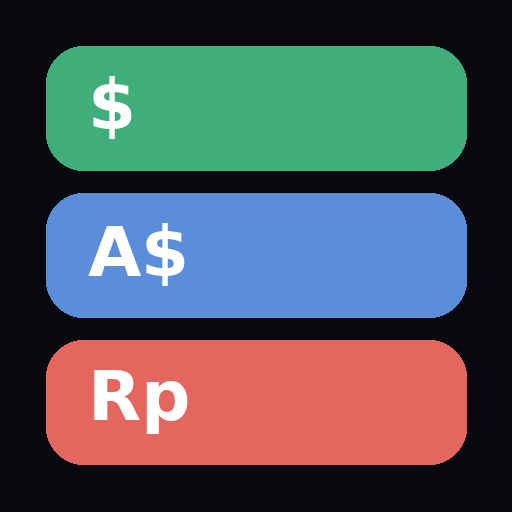
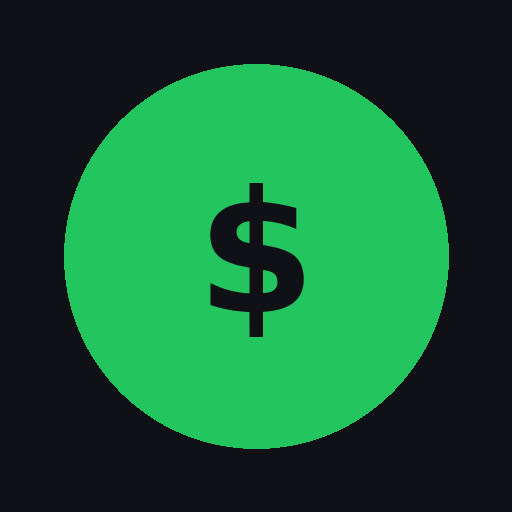
Add files via upload

diff --git a/sw.js b/sw.js
@@ -1,29 +1,8 @@
-/* Currency converter service worker */
-const CACHE = "currency-v1";
-const SHELL = [
-  "./",
-  "./index.html",
-  "./manifest.json",
-  "./icon-192.png",
-  "./icon-512.png",
-  "./icon-maskable-512.png"
-];
-
-self.addEventListener("install", (e) => {
-  e.waitUntil(caches.open(CACHE).then((c) => c.addAll(SHELL)).then(() => self.skipWaiting()));
+var CACHE = 'currency-v1';
+var FILES = ['./', './index.html', './manifest.json', './icon-192.png', './icon-512.png'];
+self.addEventListener('install', function(e) {
+  e.waitUntil(caches.open(CACHE).then(function(c) { return c.addAll(FILES); }));
 });
-
-self.addEventListener("activate", (e) => {
-  e.waitUntil(
-    caches.keys()
-      .then((keys) => Promise.all(keys.filter((k) => k !== CACHE).map((k) => caches.delete(k))))
-      .then(() => self.clients.claim())
-  );
-});
-
-self.addEventListener("fetch", (e) => {
-  const url = new URL(e.request.url);
-  // Let cross-origin rate APIs (er-api.com, jsdelivr) go straight to the network.
-  if (url.origin !== self.location.origin) return;
-  e.respondWith(caches.match(e.request).then((r) => r || fetch(e.request)));
+self.addEventListener('fetch', function(e) {
+  e.respondWith(caches.match(e.request).then(function(r) { return r || fetch(e.request); }));
 });